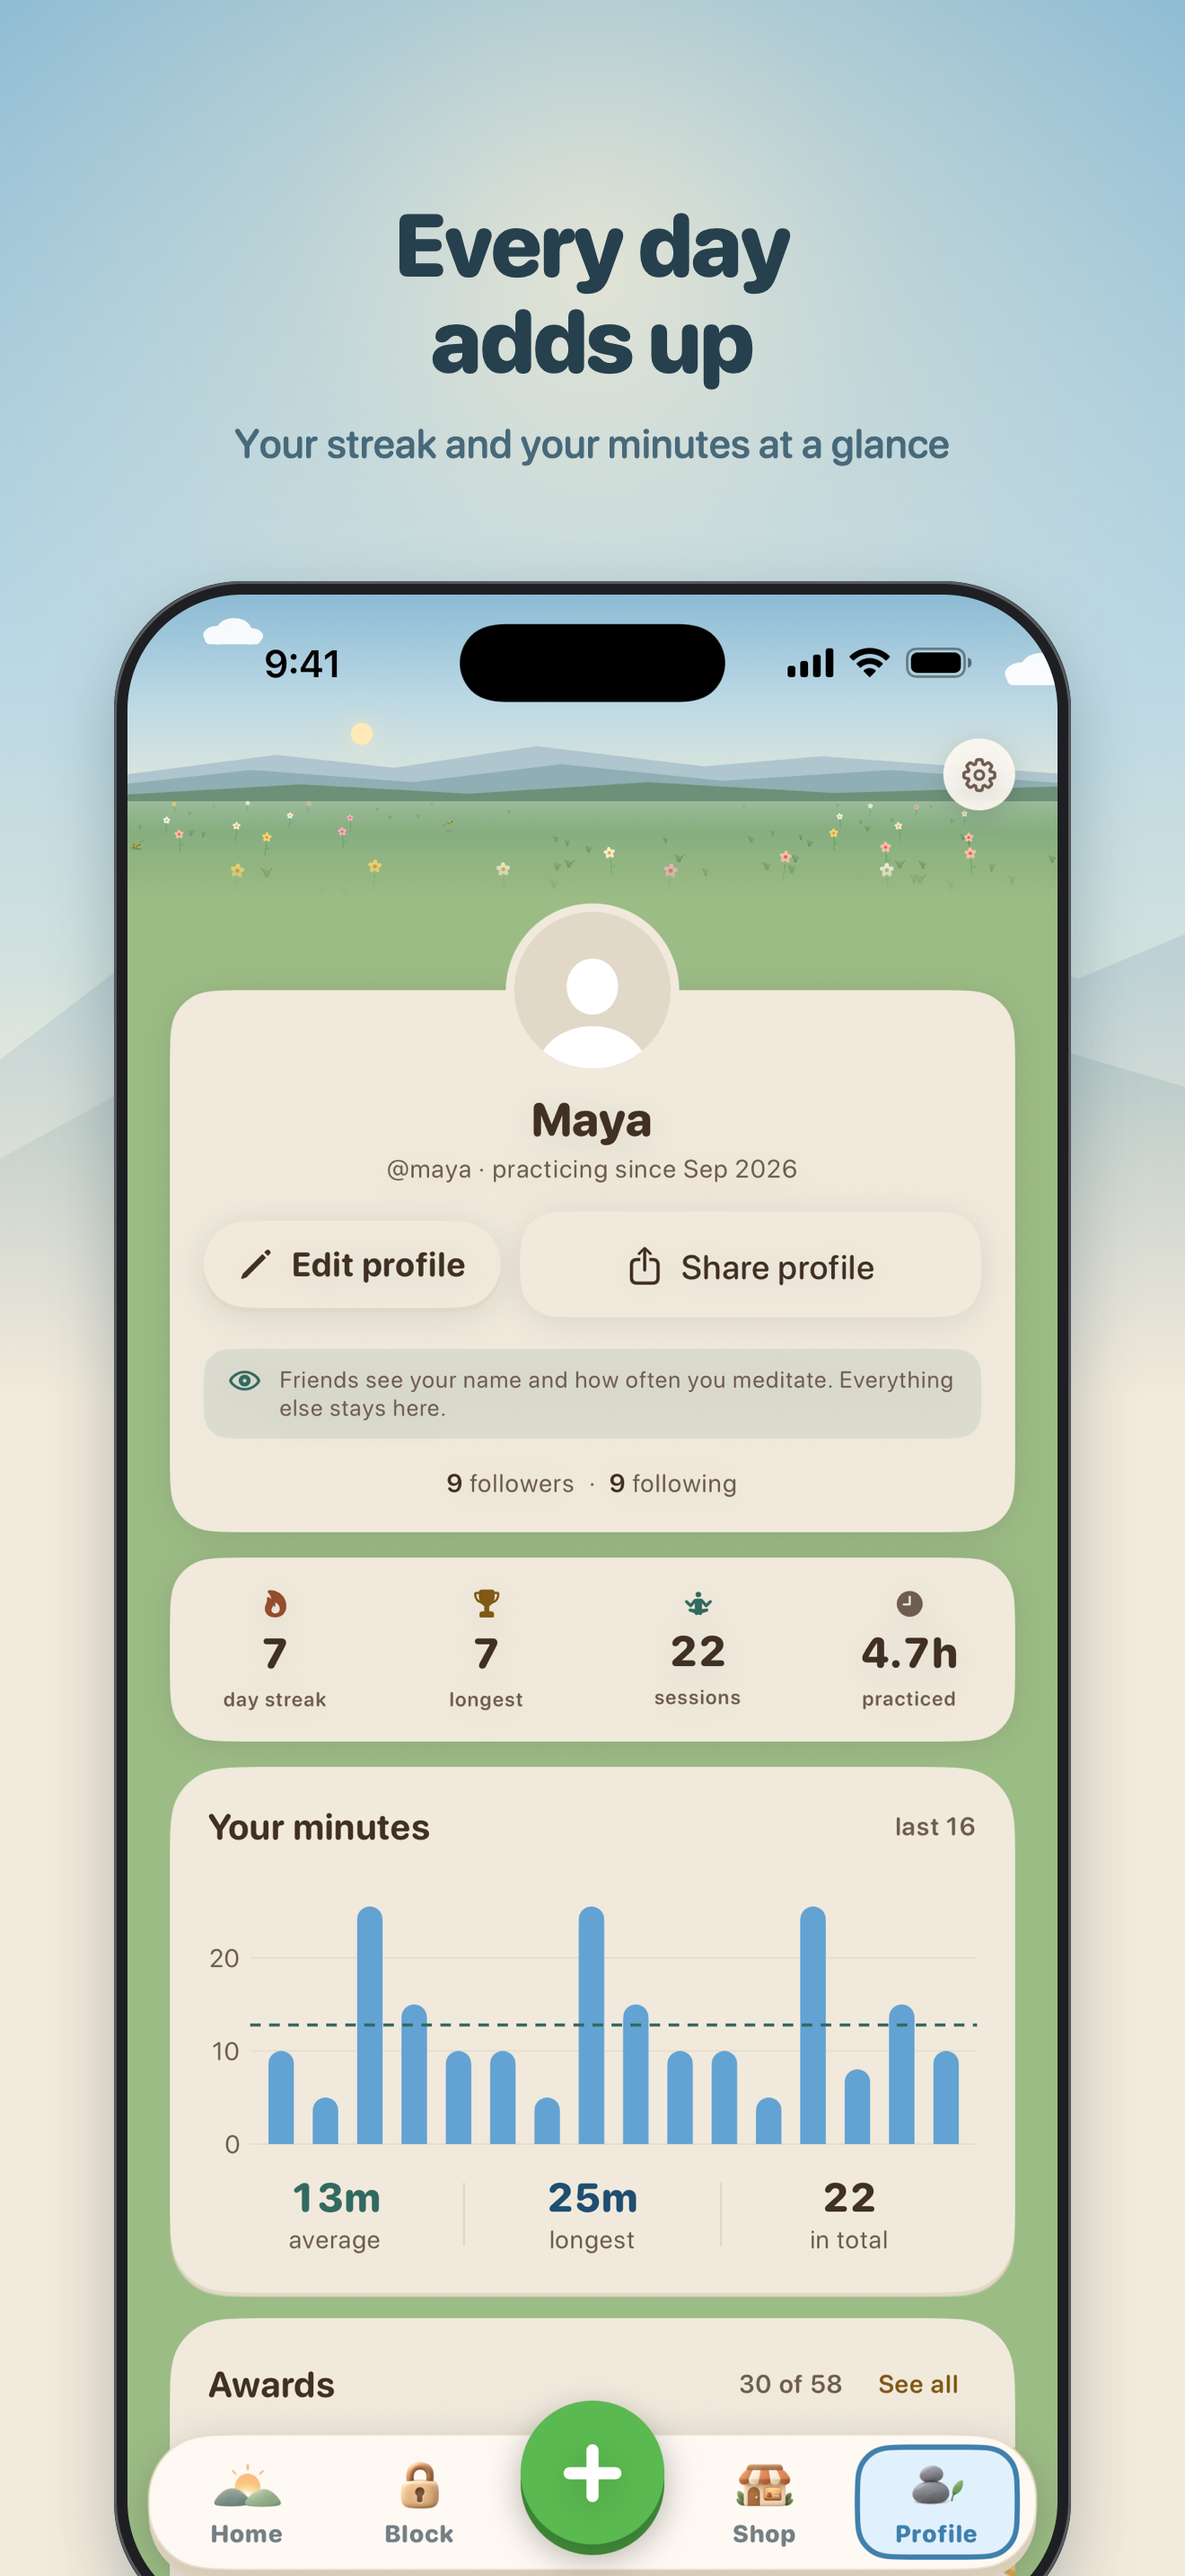
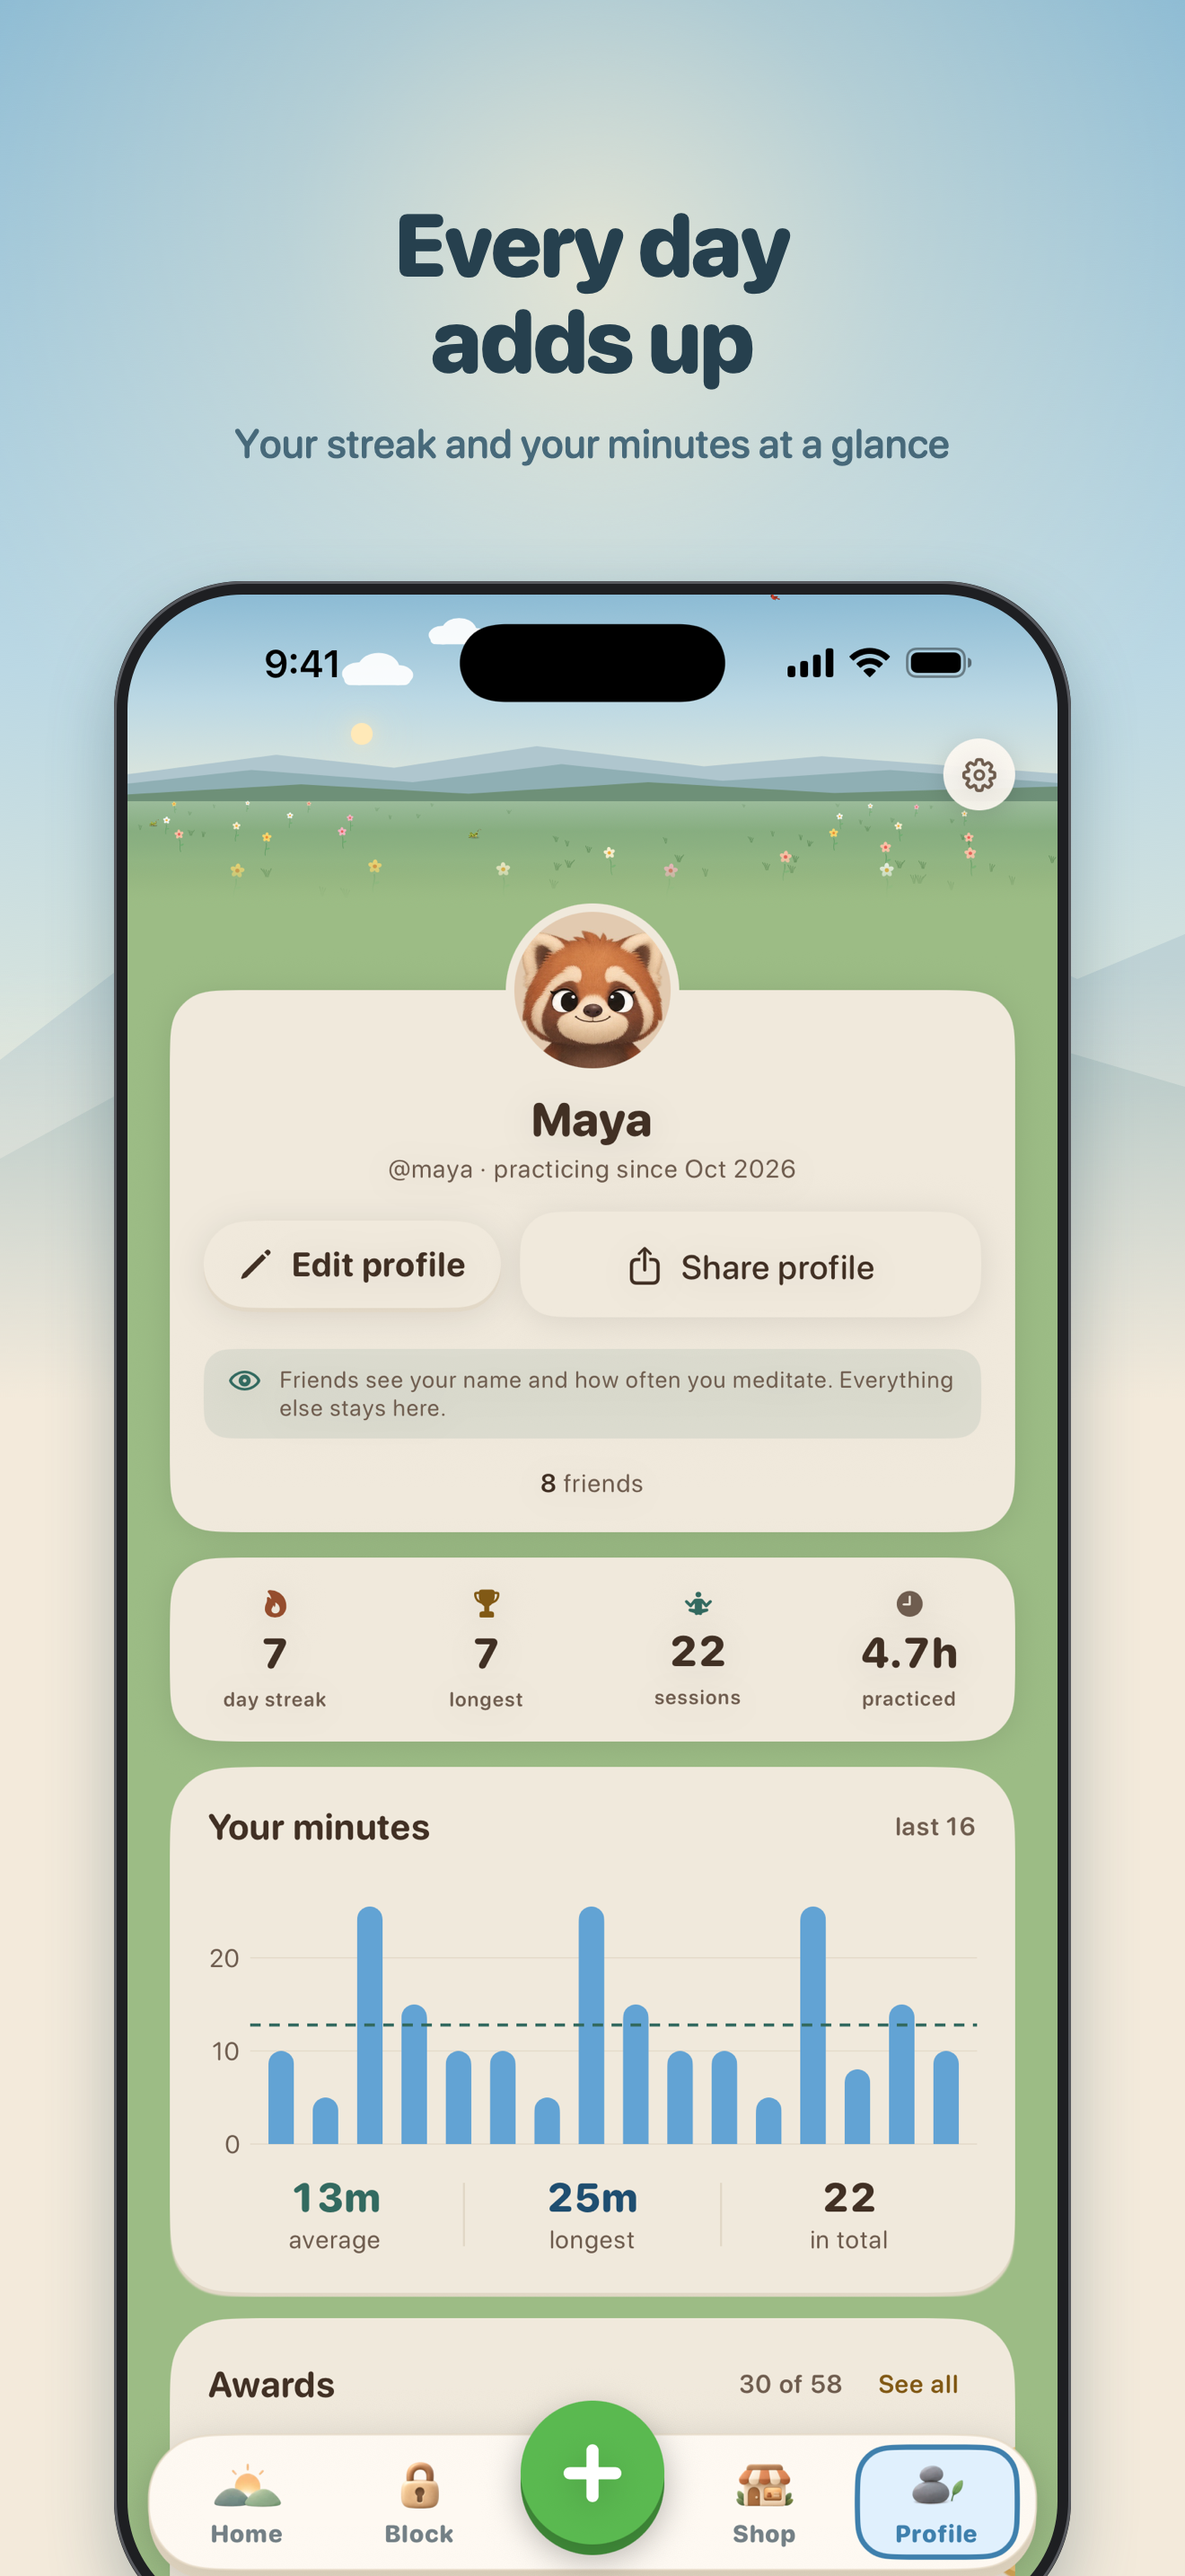
Screenshots 7 and 9 retaken for 1.4: pictures on every profile, the weekly goal
Profile (7) showed "9 followers / 9 following", which the app has not said
since Friends became friends-only, and a grey default portrait. Friends (9)
was a column of grey silhouettes with no weekly goal, 1.4's headline. Both
retaken from the current build on an iPhone 17 Pro Max simulator and framed
with tools/store_shots.swift under Aziz's captions, with 6.5 inch copies.

The store-screenshot seed (DEBUG only) now gives every demo friend one of the
preset pictures and Maya a red panda, and includes the running goal with
Priya under founder-free names. Test mode outside screenshots leaves my own
picture empty so the picture prompt can still be reviewed.

diff --git a/Coherence/Community/MemoryCommunityDatabase.swift b/Coherence/Community/MemoryCommunityDatabase.swift
@@ -238,6 +238,14 @@ enum DemoCommunity {
         return items
     }
 
+    /// Gives a demo person one of the bundled preset pictures (2026-10-19,
+    /// Melvin: "no profile photo should be empty" in a store screenshot, and
+    /// test mode is the better for looking like the real thing).
+    private static func picture(_ store: CommunityStore, _ preset: String) async {
+        guard let image = UIImage(named: "avatar-\(preset).jpg"), let url = PostPhoto.prepare(image) else { return }
+        _ = try? await store.setAvatar(url)
+    }
+
     static func store() async -> CommunityStore {
         let db = MemoryCommunityDatabase(user: "_demo_me")
         let me = CommunityStore(database: db)
@@ -248,6 +256,9 @@ enum DemoCommunity {
             let env = ProcessInfo.processInfo.environment
             try? await me.claimUsername(env["DEMO_USERNAME"] ?? "aziz",
                                         displayName: env["DEMO_NAME"] ?? "Aziz")
+            // My own picture only in store screenshots: everywhere else test
+            // mode leaves it empty, so Friends' picture prompt can be reviewed.
+            if StoreShots.on { await picture(me, "red-panda") }
         }
 
         // STORE_SHOTS=1: no founder's name in a store screenshot.
@@ -255,6 +266,7 @@ enum DemoCommunity {
         db.user = "_demo_melvin"
         let melvin = CommunityStore(database: db)
         try? await melvin.claimUsername(shots ? "priya" : "melvin", displayName: shots ? "Priya" : "Melvin")
+        await picture(melvin, "mountains")
         try? await melvin.markFirstSession(at: Date().addingTimeInterval(-86_400 * 40))
         try? await melvin.sendRequest(to: CommunityNames.profile(user: "_demo_me"))
         // How often Melvin meditates, so the friends list and his page have
@@ -281,12 +293,14 @@ enum DemoCommunity {
         db.user = "_demo_jordan"
         let jordan = CommunityStore(database: db)
         try? await jordan.claimUsername("jordan.k", displayName: "Jordan")
+        await picture(jordan, "frog")
         try? await jordan.sendRequest(to: CommunityNames.profile(user: "_demo_me"))
         // Jordan asked but has never sat: the "No sessions yet" case.
 
         db.user = "_demo_lena"
         let lena = CommunityStore(database: db)
         try? await lena.claimUsername("lena", displayName: "Lena")
+        await picture(lena, "moon-lake")
         try? await lena.updatePracticeStats(.init(sessions7d: 0, minutes7d: 0, currentStreak: 0,
                                                    totalSessions: 15, lastSessionAt: Date().addingTimeInterval(-86_400 * 4)))
 
@@ -294,6 +308,7 @@ enum DemoCommunity {
         db.user = "_demo_sam"
         let sam = CommunityStore(database: db)
         try? await sam.claimUsername("sam_p", displayName: "Sam")
+        await picture(sam, "owl")
 
         db.user = "_demo_me"
         try? await me.sendRequest(to: CommunityNames.profile(user: "_demo_sam"))
@@ -324,16 +339,19 @@ enum DemoCommunity {
                                       title: "Morning session", sound: "Silence"))
         // Meditating together (2026-10-14): a running goal with Melvin, in
         // its second day, and an invite from Sam waiting for an answer.
-        // `PREVIEW_GOALS=none` leaves them out; never in store screenshots.
-        if !shots, ProcessInfo.processInfo.environment["PREVIEW_GOALS"] != "none" {
+        // `PREVIEW_GOALS=none` leaves them out. In store screenshots since 1.4
+        // ships the feature (2026-10-19), with Priya and Maya in place of the
+        // founders' names.
+        if ProcessInfo.processInfo.environment["PREVIEW_GOALS"] != "none" {
             let today = DayKey.key(Date())
             let start = DayKey.adding(-2, to: today)
             db.user = "_demo_me"
-            let goal = try? await me.inviteGoal(to: CommunityNames.profile(user: "_demo_melvin"), target: 4, myName: "Aziz")
+            let myName = shots ? (ProcessInfo.processInfo.environment["DEMO_NAME"] ?? "Maya") : "Aziz"
+            let goal = try? await me.inviteGoal(to: CommunityNames.profile(user: "_demo_melvin"), target: 4, myName: myName)
             db.user = "_demo_melvin"
             if let goal, let pair = try? await melvin.goals(friends: [CommunityNames.profile(user: "_demo_me")])
                 .first(where: { $0.id == goal }) {
-                try? await melvin.acceptGoal(pair, today: start, myName: "Melvin")
+                try? await melvin.acceptGoal(pair, today: start, myName: shots ? "Priya" : "Melvin")
                 try? await melvin.publishGoalDays(goal: goal, days: [
                     GoalDay(day: start, minutes: 14), GoalDay(day: DayKey.adding(1, to: start), minutes: 22),
                     GoalDay(day: today, minutes: 11),
@@ -345,6 +363,8 @@ enum DemoCommunity {
         }
         // STORE_SHOTS=1: six more friends, so the list reads as a circle.
         if shots {
+            let pictures = ["_demo_theo": "bonsai", "_demo_ana": "cat", "_demo_dan": "turtle",
+                            "_demo_jonas": "wave", "_demo_mei": "lotus", "_demo_noah": "misty-pines"]
             let more: [(String, String, String, PracticeStats)] = [
                 ("_demo_theo", "theo", "Theo", .init(sessions7d: 7, minutes7d: 118, currentStreak: 21,
                                                      totalSessions: 64, lastSessionAt: Date().addingTimeInterval(-5_400))),
@@ -363,6 +383,7 @@ enum DemoCommunity {
                 db.user = user
                 let friend = CommunityStore(database: db)
                 try? await friend.claimUsername(handle, displayName: name)
+                if let preset = pictures[user] { await picture(friend, preset) }
                 try? await friend.markFirstSession(at: Date().addingTimeInterval(-86_400 * 30))
                 try? await friend.sendRequest(to: CommunityNames.profile(user: "_demo_me"))
                 try? await friend.updatePracticeStats(stats)

diff --git a/marketing/APP_STORE_PASTE.md b/marketing/APP_STORE_PASTE.md
@@ -273,9 +273,9 @@ just one feature"). Upload in this order:
 | 4 | 04-widget | Home screen with the medium and two small widgets | Otto on your home screen | Your streak and his glow at a glance |
 | 5 | 05-sounds | The plus: the Ready screen's sound list | Meditate your way | Silence, nature, tones, a guided journey or your own audio |
 | 6 | 06-texts | Otto's text thread after Ask Otto | Otto texts you before you scroll | Open a held app and he asks you to meditate first |
-| 7 | 07-profile | Profile: streak, stats, your minutes | Every day adds up | Your streak and your minutes at a glance |
+| 7 | 07-profile | Profile: a preset picture, "8 friends", streak, stats, your minutes (retaken 2026-10-19 for 1.4) | Every day adds up | Your streak and your minutes at a glance |
 | 8 | 08-watch | A measured Watch session's results | Wear an Apple Watch for more | Heart rate, stillness and breathing, after each session |
-| 9 | 09-friends | Friends list, eight friends | Meditate with friends | See how often your friends meditate each week |
+| 9 | 09-friends | Friends: a weekly goal with Priya, eight friends, every one with a picture (retaken 2026-10-19 for 1.4) | Meditate with friends | See how often your friends meditate each week |
 | 10 | 10-awards | The awards shelf, 30 of 58 | More than fifty awards | For showing up, going longer and trying new ways in |
 
 **Reworked 2026-10-13 (Aziz), in `marketing/appstore-new/`,** for the release after 1.2; `marketing/appstore/` still holds the live eight: the Block-list shot

diff --git a/marketing/README.md b/marketing/README.md
@@ -30,8 +30,10 @@ To regenerate after a UI change (every hook below is DEBUG only):
    `VALLEY_HOUR=9.7` (a morning sky and "Good Morning" to match 9:41),
    `PREVIEW_PAID=1` (the curves unlocked) and `STORE_SHOTS=1` (hides the Block
    and Friends test-mode cards, switches Otto's chat off as Release has it, and
-   seeds non-founder friends). Add `PREVIEW_HISTORY=1` for everything except
-   the Block shot.
+   seeds non-founder friends, each with a preset picture, Maya's own a red
+   panda, plus a running weekly goal with Priya, since 2026-10-19: no profile
+   photo in a store screenshot is ever the empty default). Add
+   `PREVIEW_HISTORY=1` for everything except the Block shot.
 4. Per shot, in this order (the Block shot needs a day with no session, and
    `PREVIEW_RESULTS` inserts a session every launch, so it goes last):
    - 02 Block, FIRST, without `PREVIEW_HISTORY`: `PREVIEW_BLOCK=full PREVIEW_TAB=block`
